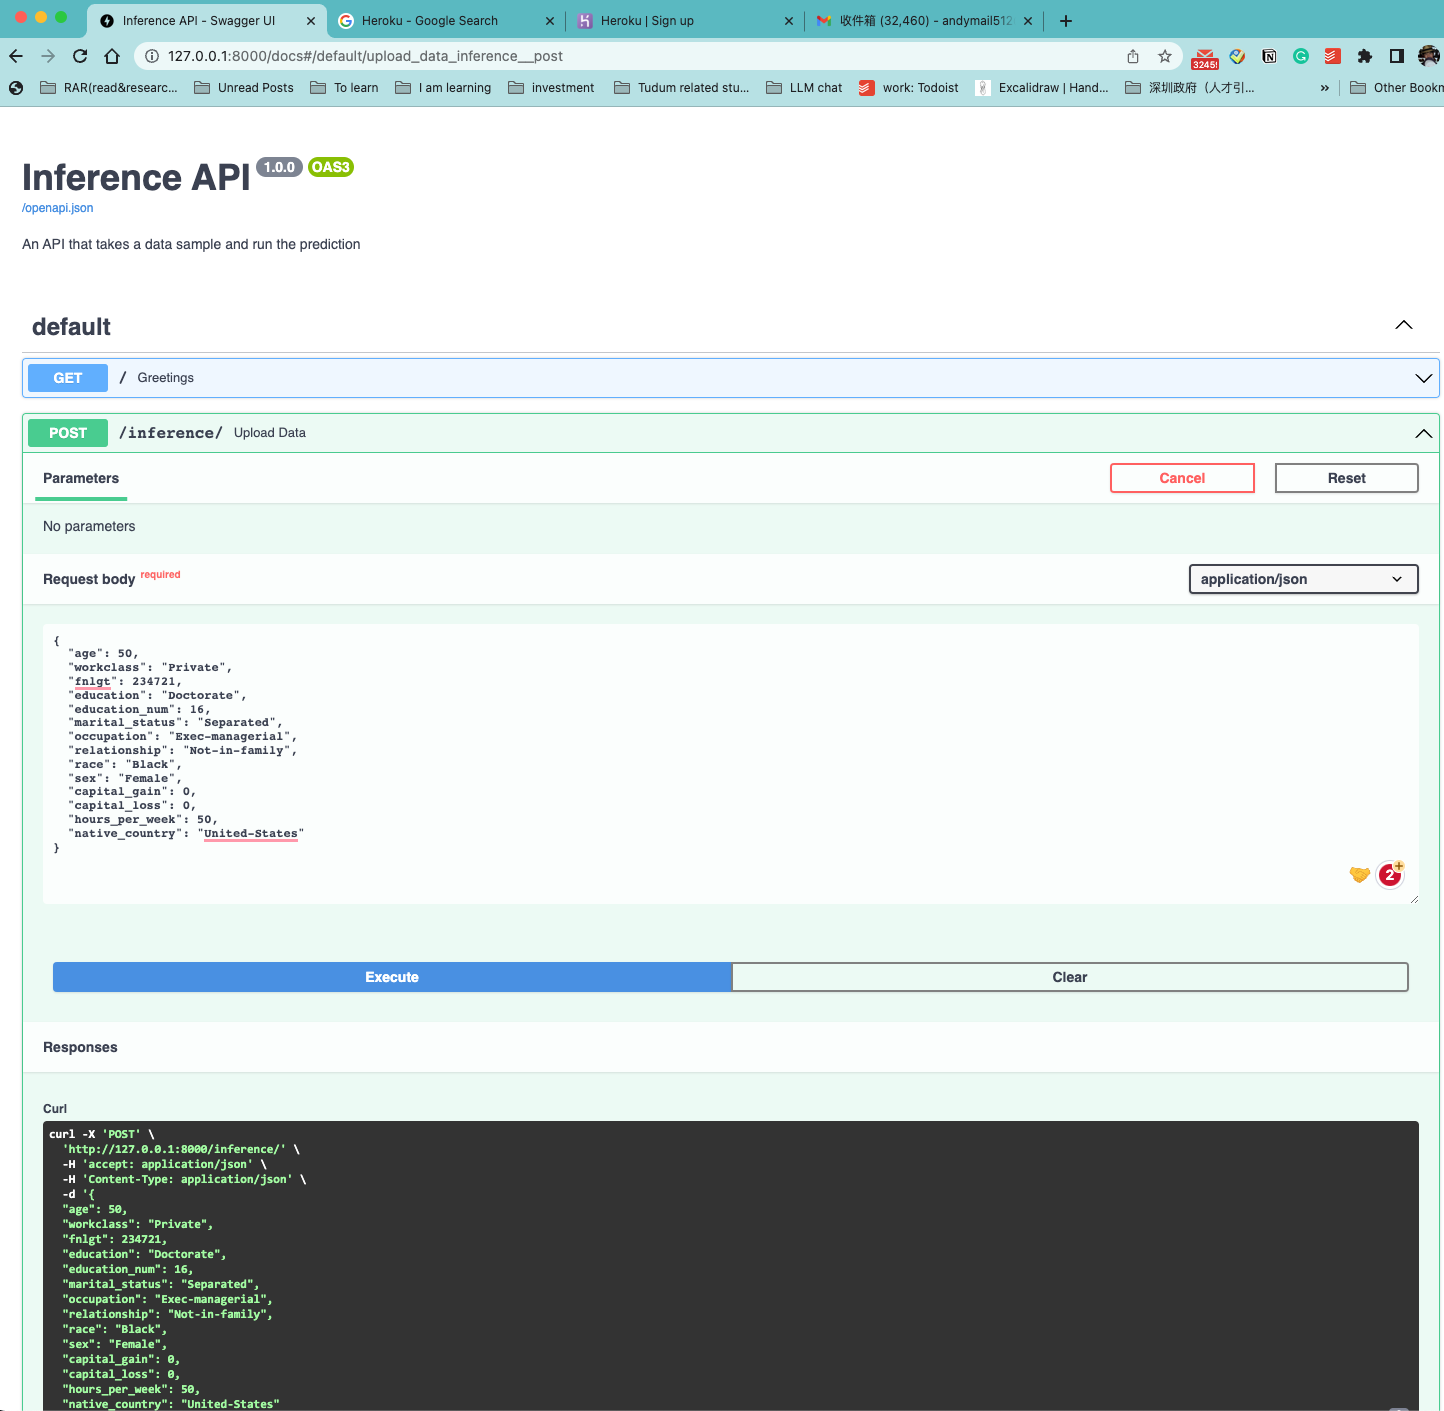
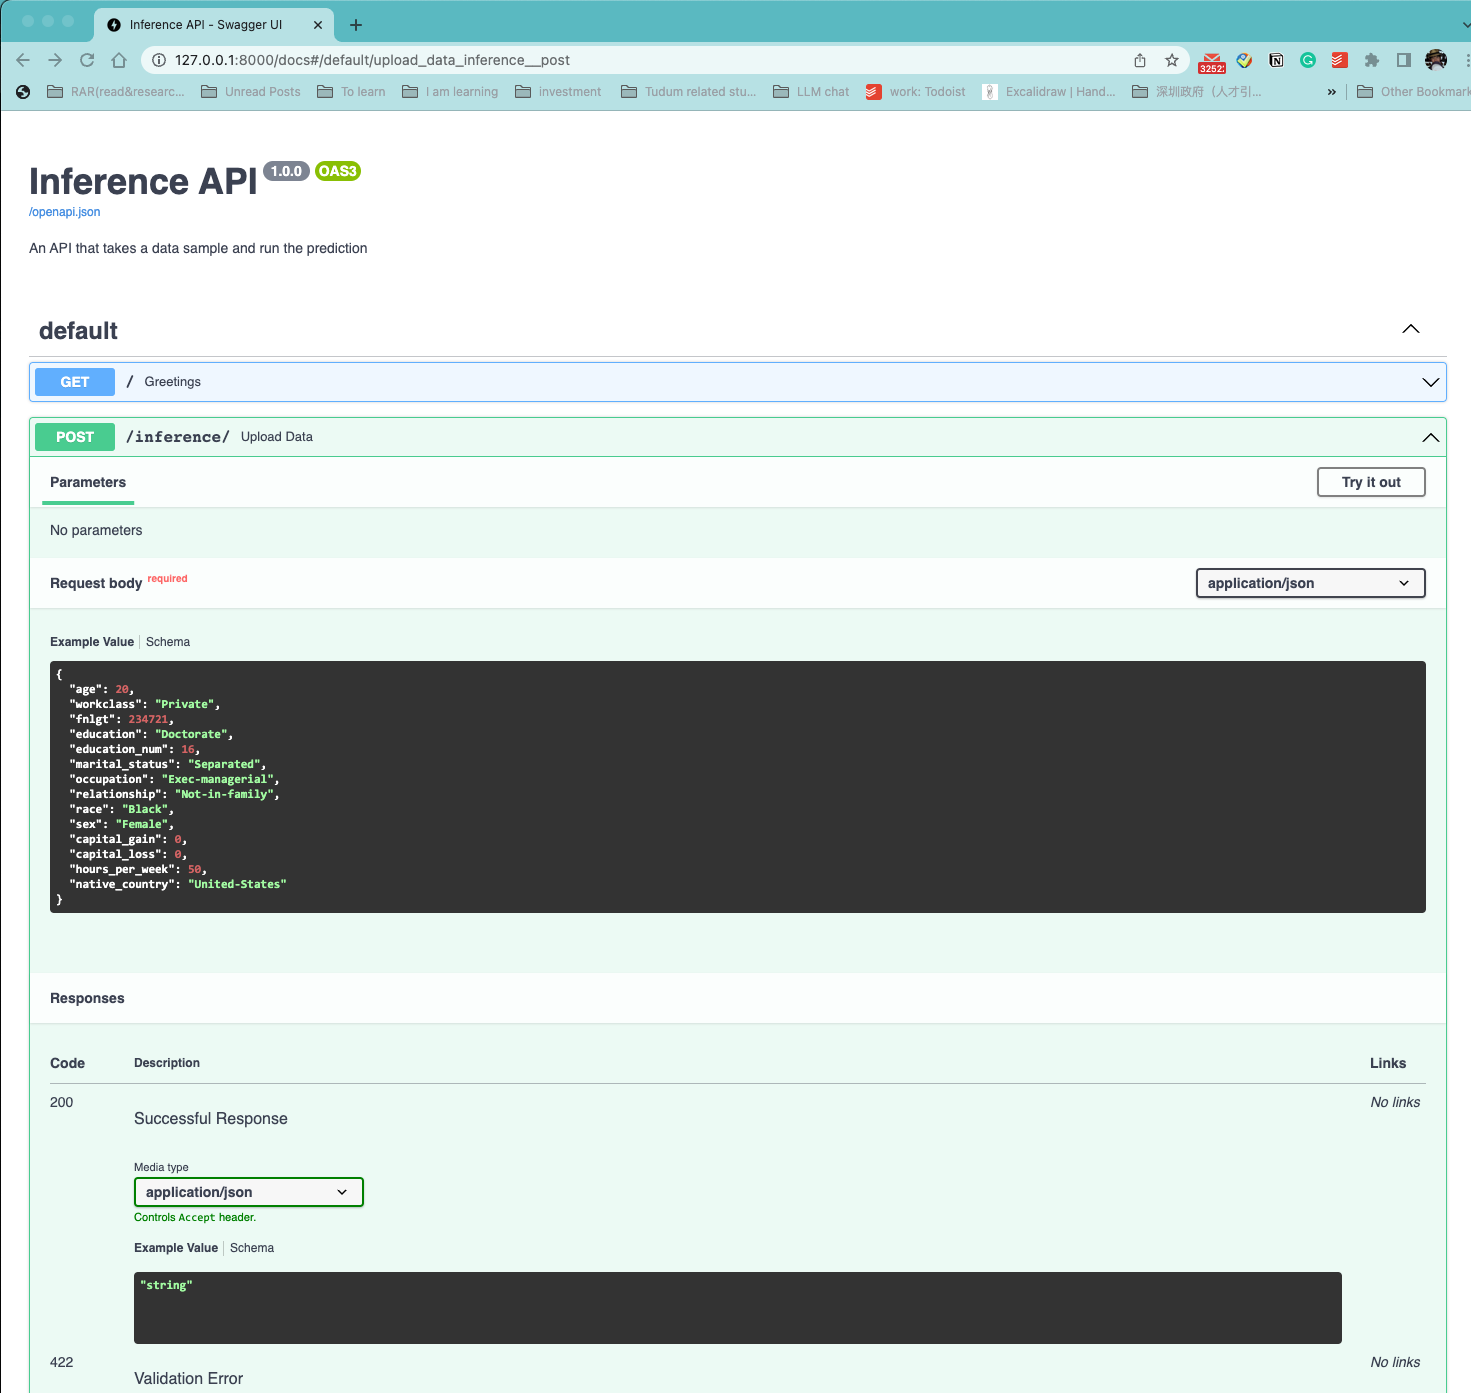
updated fastapi post with example data ingestion

diff --git a/starter/main.py b/starter/main.py
@@ -30,6 +30,25 @@ class Data(BaseModel):
     native_country: str
 
 
+    class Config:
+        schema_extra = {
+                        "example": {
+                                    'age':20,
+                                    'workclass':"Private", 
+                                    'fnlgt':234721,
+                                    'education':"Doctorate",
+                                    'education_num':16,
+                                    'marital_status':"Separated",
+                                    'occupation':"Exec-managerial",
+                                    'relationship':"Not-in-family",
+                                    'race':"Black",
+                                    'sex':"Female",
+                                    'capital_gain':0,
+                                    'capital_loss':0,
+                                    'hours_per_week':50,
+                                    'native_country':"United-States"
+                                    }
+                        }
 
 
 # Init. FastAPI app
